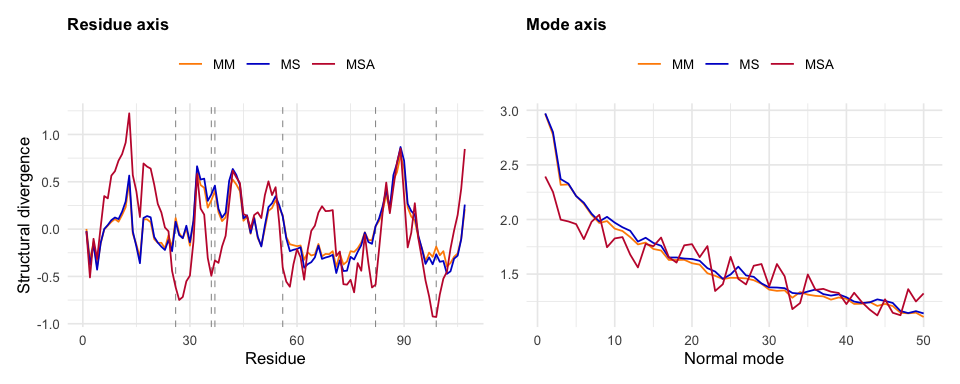
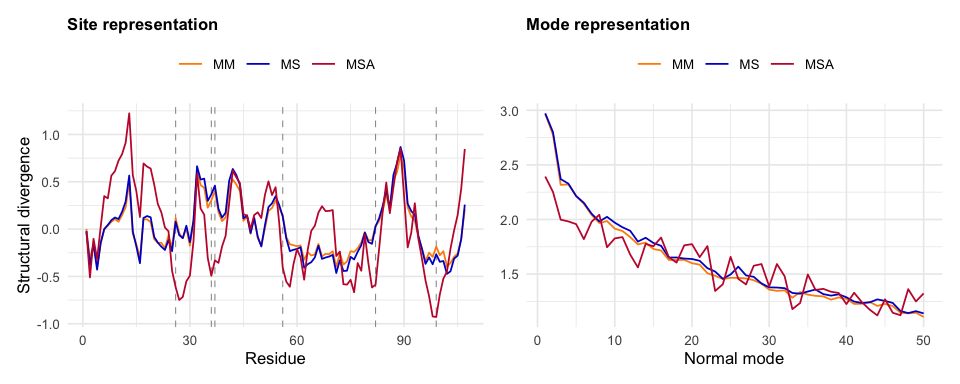
docs(readme): two representations, not two axes
"Axis" was internal vocabulary from dr2mat_site / dr2mat_mode and says
nothing to a reader: it suggests a plot axis rather than two views of
one prediction. Interface now introduces the site and mode
representations where the return shape is described, and glosses what a
normal mode is, since a reader may not know. Panel titles follow.

The fitters say what they fit, an observed site profile or an observed
mode profile, rather than naming an axis. Also drops "the four
calculate_* and predict_*", which read as four functions besides the
two pairs just named.

Claude-Session: https://claude.ai/code/session_012mrCJc8abRWDDGdNZJbwV3

Changed region(s): [[0.0625, 0.0312, 0.2188, 0.0938], [0.5938, 0.0312, 0.7188, 0.0938]]

diff --git a/README.md b/README.md
@@ -43,8 +43,8 @@ superimposing homologs over an alignment, is outside this package.
 | Function | Does | Returns |
 |----|----|----|
 | `generate_spm()` | mutates every site and records the structural response | the scan every other function reads |
-| `fit_lrmsd_msa_site()` | estimates the two selection strengths on the residue axis | the fit, with standard errors and `$gof` |
-| `fit_lrmsd_msa_mode()` | estimates them on the mode axis | the fit, with standard errors and `$gof` |
+| `fit_lrmsd_msa_site()` | estimates the two selection strengths by fitting an observed site profile | the fit, with standard errors and `$gof` |
+| `fit_lrmsd_msa_mode()` | estimates them by fitting an observed mode profile | the fit, with standard errors and `$gof` |
 | `calculate_profiles()` | evaluates the model at selection strengths given as arguments | the profiles |
 | `calculate_decomposition()` | decomposes the model at selection strengths given as arguments | the nested models and the three contributions |
 | `predict_profiles()` | evaluates the model at a fit | the profiles, with standard errors |
@@ -53,11 +53,13 @@ superimposing homologs over an alignment, is outside this package.
 The `calculate_*` pair explores how each constraint shapes the profiles;
 the `predict_*` pair evaluates the model where the data puts it.
 
-The four `calculate_*` and `predict_*` functions return a `$site` and a
-`$mode` tibble, holding the profiles on the two axes. Their `metric`
-argument chooses the quantity: `"lrmsd"` keeps the profile’s overall
-level, `"nlrmsd"` centres it on its mean, which is the form a fit is
-made on.
+Every profile comes in two representations, and the `calculate_*` and
+`predict_*` functions return both: a `$site` tibble, giving divergence
+residue by residue, and a `$mode` tibble, giving it for each normal mode
+of the elastic network, the collective motions in which the structure
+deforms most easily. Their `metric` argument chooses the quantity:
+`"lrmsd"` keeps the profile’s overall level, `"nlrmsd"` centres it on
+its mean, which is the form a fit is made on.
 
 ## Documentation
 
@@ -112,7 +114,7 @@ fit$gof
 
 `predict_profiles()` evaluates the model at that fit. It returns a
 `$site` and a `$mode` tibble, each holding the profile and its standard
-error along one axis.
+error in one representation.
 
 ``` r
 pred <- predict_profiles(fit, spm, metric = "nlrmsd")
@@ -154,10 +156,10 @@ points appear in the left panel alone.
 
 <img src="man/figures/README-profiles-1.png" width="100%" />
 
-`predict_decomposition()` returns more columns on the same two axes: the
-profiles of the four nested models, in `nlrmsd_mm`, `nlrmsd_ms`,
-`nlrmsd_ma` and `nlrmsd_msa`; the three contributions, in `nphi_mut`,
-`nphi_stab` and `nphi_act`; and a standard error for each.
+`predict_decomposition()` returns more columns in the same two
+representations: the profiles of the four nested models, in `nlrmsd_mm`,
+`nlrmsd_ms`, `nlrmsd_ma` and `nlrmsd_msa`; the three contributions, in
+`nphi_mut`, `nphi_stab` and `nphi_act`; and a standard error for each.
 
 ``` r
 dec <- predict_decomposition(fit, spm, metric = "nlrmsd")
